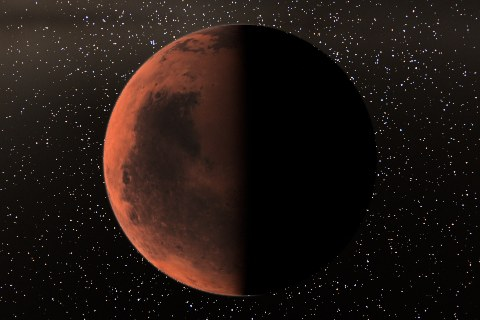
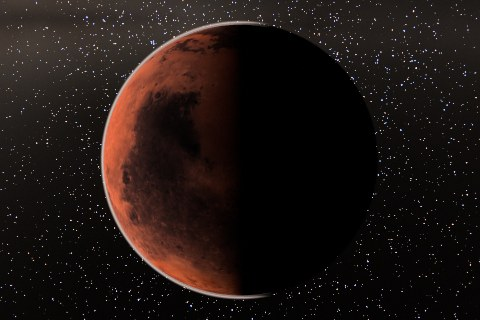
docs: the air's units, the shared march, the limb and the gamma, with ten plates
ADR-0056 measures the air from the datum and stops a ray at the drawn
sphere, and its surfaces march the shell's own tables; ADR-0037 meters
Enhanced inside the air and lifts the limb from orbit; ADR-0044 carries the
gamma preference. Rule 59's text names the one march in `render/air.ts` in
place of the authored veil. The log entry has the measurements.

Ten preset plates move, and each move is one of three things: the default
balance drawing the Sun white, the surfaces fading into the sky the shell
draws, or Enhanced's limb from orbit. `night-side`, `tau-ceti-moonrise` and
`solar-crescent` hold. `tau-ceti-dusk`'s plate loses the dev toolbar its
reference carried. `far-shore` loses the black band under its horizon.

diff --git a/CONTEXT.md b/CONTEXT.md
@@ -12221,6 +12221,73 @@ skylight above the horizon is the day's linear ramp, a quarter of the noon
 sky with the sun on the horizon against a measured 400 lx in 10 to 25 klx.
 Under the sunset exposure that lights high-albedo snow pastel pink.
 
+## The sky is marched once, and the camera on the ground is a camera (30 Oct 2026)
+
+Jon's four frames after the measured air: the limb from orbit gone to a line,
+a black band between the far shore's sea and its sky, Mars white at a sun
+2.6° under the horizon with its slopes burning red, and a noon desert whose
+horizon went gray against a hard edge of sand. Each had a different cause.
+
+**The band was the shell's own ground.** A ray the shell meets the ground
+with is a short, dense, sunless path, far darker than the sky beside it, so
+the ground's horizon has to lie under every drawn surface. The shell stopped
+at the sphere its standing eye was placed on — sea level, with the eye's
+altitude clamped at zero — and the far shore's sea lies 211 m under its
+datum: from 80 m over the water the shell's horizon was level while the
+sea's dipped 0.36°, five rows at 16 px/°. Measured by hiding every class of
+draw in turn through R3F's root map: the band survived the shell, the
+ground, the sea, the sphere, the galaxy and the lines, because it was where
+nothing drew. The shell now works in sea-level units — the tables baked over
+the datum (`airHeights`, `airTopRatio`), the eye wherever it is — and stops a
+ray at the drawn sphere, sunk under the datum, whose horizon is under the
+terrain and the sea everywhere. `standing` and `spheroidRadiusToward` go
+with it. Terrestrial shells are round: the terrain is spherical, and Earth's
+0.3% of oblateness put a sea-level eye 4.4 km up in its air at 27°.
+
+**Mars was two things.** Enhanced opened 4.1 stops for a daylight figure
+keyed on the zenith and the direct sun — the zenith dark, the horizon still
+sunlit from 7.7 km up — where Automatic's meter saw the frame and stopped a
+stop earlier; and the ground lit every point within the body's whole
+terminator width, 6° on Mars from 20 km of relief, so a slope tilted toward
+a sun under the horizon took a tenth of the beam. Inside the air Enhanced
+now meters as Automatic does (`meteredShare`, ADR-0037): the desert meters
+to 12.72 EV under Enhanced and 12.71 under Automatic, where Enhanced held
+14.6. `airAdaptation` and `daylightOver` go. Each point of the ground
+carries the sun past the horizon by √(2h/R) of its own height, early for a
+basin, with the airless disk's 0.025 for the beam's width; the sphere keeps
+its averaged terminator, and the descent gate's terminator band is where
+the two still differ.
+
+**The horizon was three veils.** The sphere, the ground and the sea each
+carried an authored veil — an airmass over a flat atmosphere, a haze color,
+0.15, 0.55, 0.68 — and none of it was the sky the shell drew beside it: 50 km
+of ground was veiled 27% where the path's transmittance is 0.22. `render/
+air.ts` holds the shell's recipe and tables as uniforms and one march, and
+all four materials call it; a surface is `T · surface + L` along the eye's
+own path, and the direct beam arrives through the transmittance table's
+column in place of an authored sunset tint. `hazeColor`, `sunsetTint`,
+`hazeLimb` and the sphere's `hazeStrength` go. The desert's far hills now
+haze into the sky that continues above them.
+
+**The limb is a licensed cheat.** The physical limb is two pixels on a disk
+four hundred across. From outside the air, Enhanced adds the glow the gas
+would scatter falling off over three times its height, gained four times
+(`LIMB_HEIGHTS`, `LIMB_GAIN`), above the physics and not in the extinction;
+three heights alone left a crisp bright line, because the lifted glow at
+20 km was a fifth of the base and two pixels wide. Ten shell heights of
+fade-in keep a climbing ship's sky.
+
+**Two camera choices.** The default balance is 5,800 K, the Sun's
+photosphere, so sunlight is white and the sky keeps its blue; 6,500 K drew
+the Sun at 1 : 0.88 : 0.82 and the noon zenith slate. A `render.gamma`
+display preference, 0.5 to 2, is a power on the displayed range up to white
+and on nothing above it (ADR-0044).
+
+**A chain that hid its failures.** `vitest … | rg` returns rg's status, so a
+red test and a red gate both passed a `&&` chain and the gamma slider was
+committed with a broken knob test and a type error. `set -o pipefail` on
+every chain that commits, and a fix-forward commit for that one.
+
 ## Known gaps
 
 - **The cloud guide still needs a human on headphones.** Spoken delivery across

diff --git a/docs/adr/0056-the-air-is-measured-and-its-gain-is-pi.md b/docs/adr/0056-the-air-is-measured-and-its-gain-is-pi.md
@@ -39,8 +39,22 @@ times π, with nothing fitted.**
 - The gas falls off over the body's own `atmosphere.scaleHeight`, carried on
   `BodySnapshot.atmosphereScaleHeight`. The aerosol falls off over the haze's
   `aerosolHeight` and follows its `aerosolAngstrom` slope. `datum.ts`
-  converts both to radii of the drawn sphere (`airHeights`), once for
-  `buildScene` and once for the boot prebake, which key the bake identically.
+  converts both to radii of the datum (`airHeights`, `airTopRatio`), once
+  for `buildScene` and once for the boot prebake, which key the bake
+  identically. The datum and not the drawn sphere, which is sunk under it by
+  the body's relief: the air is measured from sea level, and the shell stops
+  a ray at the drawn sphere, whose horizon lies under every drawn surface.
+  Stopped at sea level instead, from 80 m over a sea that sits 211 m under
+  its datum, the shell's level horizon stood 0.36° over the sea's and the
+  rays between — short, dense and sunless — drew a black band five pixels
+  tall between the water and the sky.
+- The sphere, the ground and the sea are seen through the same air the shell
+  draws: `render/air.ts` holds the recipe and the tables as uniforms and one
+  march through them, and each surface is `T · surface + L` along the eye's
+  own path, from where it enters the air to the fragment. Their direct beam
+  arrives through the transmittance table's column for the point's altitude
+  and sun. Nothing authored stands between the far ground and the sky it
+  fades into.
 - Sol's hazes carry published values (below). A generated haze reads its
   values off the composition family its colors came from: a boundary layer,
   0.14 of the gas height at slope 1.3; dust mixed with the gas, at 0; or a
@@ -146,18 +160,23 @@ its budget.
 ## Consequences
 
 - The noon zenith sits at its physical ratio to the ground, a sixth to a
-  tenth of the surface white. Under [ADR-0037](0037-the-enhanced-camera.md)'s
-  calibration it renders as a deep slate blue over a bright desert: right
-  relative to the sunlit ground, and darker and grayer than a phone's
-  photograph, which meters for the scene, white-balances the sun to white,
-  and saturates. Through dusk Enhanced opens up for the light that is left
-  (ADR-0037), so civil dusk is the deep blue the measured air and ozone make,
-  rather than black.
+  tenth of the surface white. Inside the air Enhanced meters, as Automatic
+  does ([ADR-0037](0037-the-enhanced-camera.md)), and the default balance
+  draws the Sun white at 5,800 K, so a noon desert is a bright ground under
+  a blue sky — the sky a phone's photograph makes, less its saturation. Civil
+  dusk is the deep blue the measured air and ozone make, rather than black.
+- The far ground fades into the horizon sky, because it is veiled by the
+  same march that draws the sky. A sun under a point's own horizon lights
+  it with the table's transmittance for that geometry, which is none.
 - The sun is the brightest object in every sky. A 2° sun on Earth draws at
   1.7 times the surface white, twelve times the sky beside it, and the dusty
   generated shore's sun is a disk over its glow rather than a spot inside it.
-- Every atmosphere seen from orbit has a thinner, dimmer limb band. Six preset
-  plates moved, and the commit that took them names each.
+- Every atmosphere seen from orbit has the limb its air makes, a line two
+  pixels wide on a disk four hundred across. Under Enhanced, from outside
+  the air, the shell adds the glow the gas would scatter falling off over
+  three times its height, gained four times (ADR-0037): the soft ring the
+  home page wraps the disk in, as a presentation above the physics and not
+  in place of it.
 - Under 20° of sun the zenith runs bright: 1.6 times the CIE sky at 10°.
   The model has no ground bounce. By −15° the measured sky is mostly airglow
   and starlight, which the model does not draw, so there it falls short.

diff --git a/docs/adr/0037-the-enhanced-camera.md b/docs/adr/0037-the-enhanced-camera.md
@@ -97,6 +97,19 @@ its display level while the exposure is away from the calibration
 flare, and the near field's key, fill and ambient, alongside the integrated
 stars, which already carried the inverse.
 
+From orbit, Enhanced lifts the limb. The physical limb is a line: Earth's
+gas falls off over 8.5 km, a seventh of a percent of the radius, two pixels
+on a disk four hundred across, and a camera's limb is that line and no more.
+The deep-space composite is where the bible licenses a cheat, and the soft
+ring the home page wraps the disk in is one. Outside the air, the shell adds
+the glow the gas would scatter if it fell off over three times its height,
+gained four times (`LIMB_HEIGHTS`, `LIMB_GAIN` in `render/air.ts`) — in the
+light it scatters and not in what it takes, so the limb's own line and the
+disk under it stay the physics and only the glow above them is the
+presentation. It comes in over ten shell heights up from the top of the air,
+so a ship climbing out keeps the sky it had; the photographic views never
+see it.
+
 The neutral look keeps a light's hue through the whole curve, and over its
 top 5% it rolls a saturated light toward white rather than down. Mixing
 toward the gray of its own luminance, only as far as its brightest channel

diff --git a/docs/agents/invariants.md b/docs/agents/invariants.md
@@ -682,10 +682,12 @@ sphere above — so they share the lunar-Lambert split, the terminator and the
 published photograph, and a term on one side alone is a step at the switch a
 descent flies straight through. Measured across it: 3.1% apart in mean value
 on Mars, 1.5% on Earth. Three terms had to be matched to get there — skylight
-comes _out of_ the direct beam rather than beside it, the aerial veil the
-disk wears is carried by the ground as well because the shell only survives
-outside the silhouette, and where a photograph exists it supplies the albedo
-outright. Each was 15%, 48% and 9% of the drawn value on its own.
+comes _out of_ the direct beam rather than beside it, the air the disk is
+seen through is carried by the ground and the sea as well because the shell
+only survives outside the silhouette — one march through the shell's own
+tables in `render/air.ts`, so the far ground fades to the sky beside it —
+and where a photograph exists it supplies the albedo outright. Each was 15%,
+48% and 9% of the drawn value on its own.
 [ADR-0020](../adr/0020-the-face.md).
 
 ### Rule 60

diff --git a/.claude/rules/rendering.md b/.claude/rules/rendering.md
@@ -151,10 +151,12 @@ Reasoning: `AGENTS.md` § "The rules that actually matter",
   `render/terrain.ts` and `render/planet.ts` share the lunar-Lambert split, the
   terminator and the archive's photograph. A descent crosses the eight-pixel gate
   between them — 3.1% apart on Mars, 1.5% on Earth — so anything added to one side is
-  a step at the switch. The aerial veil is the case that proves it and the least
+  a step at the switch. The air is the case that proves it and the least
   obvious: the atmosphere shell is a back-side sphere, so it survives the depth
   test only _outside_ the silhouette, and everything the air does in front of
-  the ground happens in the surface material. Skylight comes _out of_ the direct
+  a surface happens in that surface's material — the sphere, the ground and
+  the sea all march the shell's own tables (`render/air.ts`), and the direct
+  beam arrives through the same table. Skylight comes _out of_ the direct
   beam rather than beside it, and where a photograph exists it supplies the
   albedo.
 

diff --git a/docs/adr/0044-the-sensor-reconstructs-the-display.md b/docs/adr/0044-the-sensor-reconstructs-the-display.md
@@ -27,7 +27,11 @@ the default. Spatial FSR accepts raw or four-sample input at reduced resolution;
 temporal FSR accepts zero samples at native or reduced resolution. Supersampling
 uses native scale and doubles each drawing-buffer axis. The ratios are 1.5 for
 Quality, 1.7 for Balanced, 2 for Performance and 3 for Ultra performance.
-Sharpness is off, standard at 0.8, or crisp at 1.
+Sharpness is off, standard at 0.8, or crisp at 1. `render.gamma` is a display
+preference beside them, 0.5 to 2 with 1 as the curve is authored: a power on
+the displayed range up to white and on nothing above it, written to the tone
+curve as a uniform, because a monitor in a bright room and one in a dark room
+do not agree about where the midtones sit and the curve cannot know the room.
 
 `render.picture` migrates saved `render.aa` choices once. The page's `?picture=`
 override does not write the preference. The resolver preserves an unsupported
